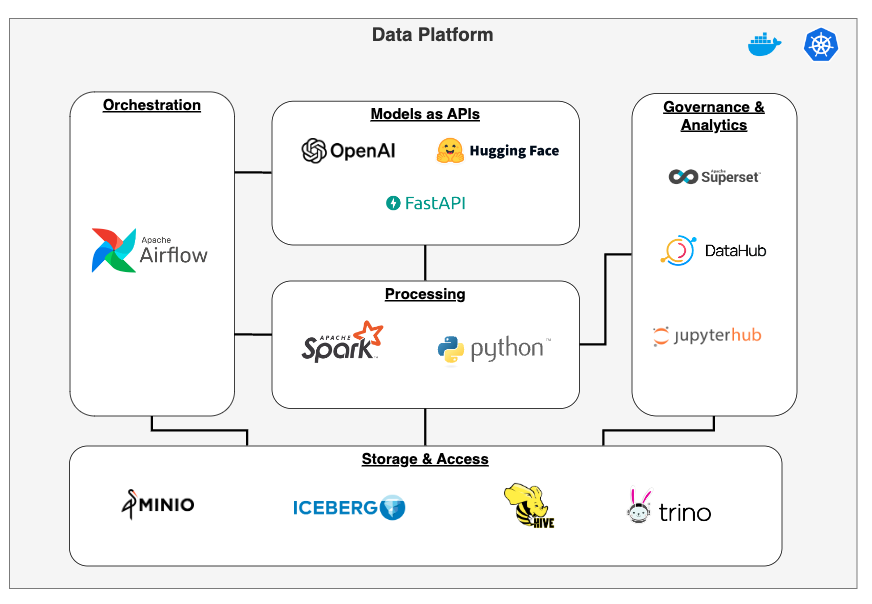
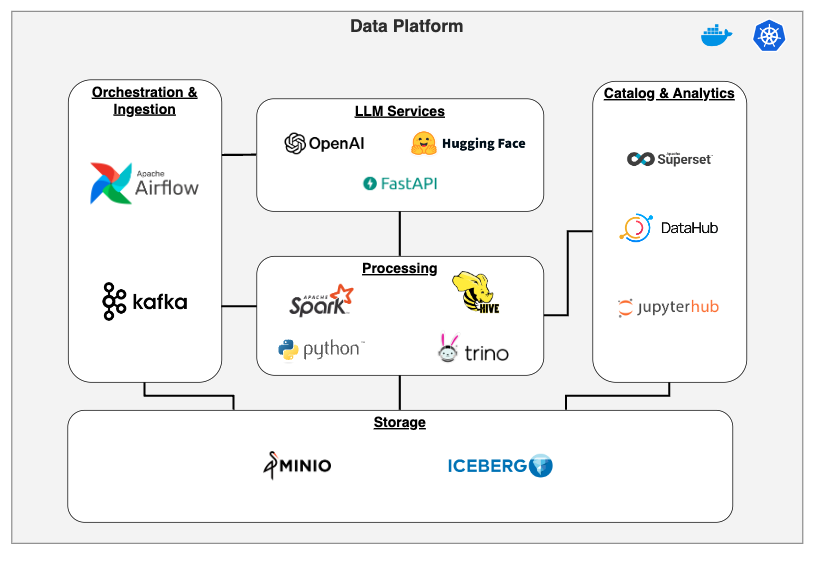
Replacing Conduktor UI with Open source one

diff --git a/services/airflow/dags/kaggle_airbnb.py b/services/airflow/dags/kaggle_airbnb.py
@@ -1,6 +1,6 @@
 import os
 from airflow.models.baseoperator import chain
-from airflow.decorators import  task,task_group
+from airflow.decorators import task, task_group
 from pendulum import datetime
 from include.operators.kaggle import KaggleDatasetToS3
 from airflow.providers.apache.spark.operators.spark_submit import SparkSubmitOperator
@@ -11,7 +11,6 @@ from airflow import DAG
 import logging
 from include.utilities.requests import post_json_request
 from include.helper_functions import kaggle_airbnb as helper_functions
-from airflow.operators.python import PythonOperator
 
 logger = logging.getLogger(__name__)
 
@@ -23,25 +22,24 @@ SPARK_CONN_ID = "spark_local"
 CONN_ID = "trino_default"
 DATABASE_NAME = "kaggle_airbnb"
 TABLE_NAME = "listings"
-URL = "http://ingress-nginx-controller.ingress-nginx.svc.cluster.local:80/api/v1/models/column_analysis"
+MODEL_SERVICE_URL = "http://ingress-nginx-controller.ingress-nginx.svc.cluster.local:80/api/v1/models/column_analysis"
 
 
 with DAG(
     dag_id="kaggle_airbnb",
-    start_date=datetime(2023, 1, 1), 
-    max_active_runs=3, 
-    schedule=None, 
-    catchup=False
-) as dag: 
+    start_date=datetime(2023, 1, 1),
+    max_active_runs=3,
+    schedule=None,
+    catchup=False,
+) as dag:
     download_dataset_task = KaggleDatasetToS3(
-        task_id='download_dataset',
+        task_id="download_dataset",
         conn_id=KAGGLE_CONN_ID,
         dataset="airbnb/seattle",
         bucket=S3_BUCKET,
         path=f"raw/{SOURCE}",
-        aws_conn_id=AWS_CONN_ID 
+        aws_conn_id=AWS_CONN_ID,
     )
-    
 
     @task_group()
     def listings():
@@ -51,86 +49,95 @@ with DAG(
 
         clean = SparkSubmitOperator(
             application=f"{os.environ['AIRFLOW_HOME']}/spark_scripts/{SOURCE}/{TYPE}/clean.py",
-            name = f"{SOURCE}_{TYPE}_clean",
+            name=f"{SOURCE}_{TYPE}_clean",
             task_id="clean",
             conn_id=SPARK_CONN_ID,
-            conf = spark_config,
+            conf=spark_config,
             application_args=[
                 SOURCE,
                 TYPE,
                 S3_RAW_PATH,
                 S3_STAGING_PATH,
-                ";".join(['url', 'scrape', 'license' ])
-                ],
+                ";".join(["url", "scrape", "license"]),
+            ],
         )
-        
+
         load = SparkSubmitOperator(
             application=f"{os.environ['AIRFLOW_HOME']}/spark_scripts/{SOURCE}/{TYPE}/load.py",
-            name = f"{SOURCE}_{TYPE}_load",
+            name=f"{SOURCE}_{TYPE}_load",
             task_id="load",
             conn_id=SPARK_CONN_ID,
-            conf = spark_config,
-            application_args=[
-                SOURCE,
-                TYPE,
-                S3_STAGING_PATH
-                ],
+            conf=spark_config,
+            application_args=[SOURCE, TYPE, S3_STAGING_PATH],
         )
 
         @task_group()
         def generate_column_descriptions():
             @task()
             def get_columns_missing_descriptions(**kwargs):
-                hook = TrinoHook(trino_conn_id=CONN_ID) 
-                columns = helper_functions.identify_columns_missing_comments(hook=hook, database=DATABASE_NAME, table=TABLE_NAME)
-                return helper_functions.create_llm_request_batches(columns=columns, batch_size=100)
+                hook = TrinoHook(trino_conn_id=CONN_ID)
+                columns = helper_functions.identify_columns_missing_comments(
+                    hook=hook, database=DATABASE_NAME, table=TABLE_NAME
+                )
+                return helper_functions.create_llm_request_batches(
+                    columns=columns, batch_size=100
+                )
 
-            
             @task
-            def query_llm(columns:list):
+            def query_llm(columns: list):
                 if not columns:
                     AirflowSkipException("No columns to describe")
 
                 payload = helper_functions.build_model_api_payload_csv(
-                    dataset_context="AirBnB", 
-                    table=TABLE_NAME, 
-                    columns=columns)
+                    dataset_context="AirBnB", table=TABLE_NAME, columns=columns
+                )
 
                 logger.info("Sending payload to API")
-                response = post_json_request(URL,  payload)
+                response = post_json_request(MODEL_SERVICE_URL, payload)
 
                 if response.status_code != 200:
                     raise Exception(f"Error from Models service API: {response.text}")
-                
+
                 content = response.json()["content"]
-                usage =response.json()["usage"]
+                usage = response.json()["usage"]
                 logger.info(f"Usage: {usage}")
                 logger.debug(f"Result: {content}")
-                
-                return helper_functions.csv_to_json_array(content)
-            
-            @task 
-            def apply_column_descriptions(**kwargs):
 
-                column_batched_responses =  kwargs['ti'].xcom_pull(task_ids='listings.generate_column_descriptions.query_llm', key='return_value')
+                return helper_functions.csv_to_json_array(content)
+
+            @task
+            def apply_column_descriptions(**kwargs):
+                column_batched_responses = kwargs["ti"].xcom_pull(
+                    task_ids="listings.generate_column_descriptions.query_llm",
+                    key="return_value",
+                )
                 # flattening resulting list of lists into a single list
-                column_responses = [item for sublist in column_batched_responses for item in sublist]
+                column_responses = [
+                    item for sublist in column_batched_responses for item in sublist
+                ]
 
                 TrinoHook(trino_conn_id=CONN_ID).run(
-                    sql=helper_functions.build_comment_sql(column_responses, database=DATABASE_NAME, table=TABLE_NAME),
-                    autocommit=True
+                    sql=helper_functions.build_comment_sql(
+                        column_responses, database=DATABASE_NAME, table=TABLE_NAME
+                    ),
+                    autocommit=True,
                 )
 
-            query_llm.partial().expand(
-                columns=get_columns_missing_descriptions()
-                )>> apply_column_descriptions() 
+            (
+                query_llm.partial().expand(columns=get_columns_missing_descriptions())
+                >> apply_column_descriptions()
+            )
 
         @task
         def run_datahub_pipeline(recipe_path):
             helper_functions.run_datahub_pipeline(recipe_path)
 
-        clean >> load >> generate_column_descriptions() >> run_datahub_pipeline("/opt/airflow/lib/datahub/recipes/airbnb.yaml")
-
+        (
+            clean
+            >> load
+            >> generate_column_descriptions()
+            >> run_datahub_pipeline("/opt/airflow/lib/datahub/recipes/airbnb.yaml")
+        )
 
     @task_group()
     def reviews():
@@ -138,18 +145,11 @@ with DAG(
         @task
         def clean():
             pass
-        
+
         @task
         def load():
             pass
 
         clean() >> load()
 
-    chain(
-        download_dataset_task,
-        [
-            listings(),
-            reviews()
-        ]
-    )
- 
+    chain(download_dataset_task, [listings(), reviews()])

diff --git a/README.md b/README.md
@@ -3,14 +3,29 @@
 
 ## Introduction
 
-Goal is to create a dev data platform running on your local machine.  Something that:
+The goal of this project is to provide a local development environment for Data Engineers & Scientists to easily experiement with new tools and use cases. This is made possible because the tools in the project are pre-configured to work with each other, minimizing the effort needed to get started. 
 
-- runs on kubernetes in docker, and has persistent volumes so your data is not loss
-- has tools for ingesting, transforming, storing, querying, exploring, cataloging, and visualizing data.  All fully configured to work with each other
-- and includes a sample data ingestion use case utilizing LLMs 
+### The use case
+We'll ingest a small dataset from Kaggle and process it with our platform:
+- Use custom Airflow operators and hooks to ingest CSVs to a raw bucket in Minio
+- Run Spark jobs to clean some of the columns, and write the output using the Apache Iceberg table format
+- Since the Kaggle data set did not come with column descriptions, we'll share some details about the data set with GPT 3.5 and ask it to generate initial column descriptions for us 
+- Run a Datahub CLI pipeline task which utilizes Trino to profile our tables, and publish results to a Kafka topic where it's consumed by the Datahub metadata service
+- #TODO Languag detection and sentiment analysis
 
 
-Cool, I got you! This project is meant to be a local playground for Data Engineers. It's designed to be fairly modular to allow users to configured based on their needs.
+This version makes uses a *mostly* open stack comprised of:
+
+Tool  | Description 
+--- | --- 
+[MinIO](https://min.io/) | An object storage solution that provides an S3-like experience, but with your data staying local.
+[Apache Airflow ](https://airflow.apache.org/) | An orchestrator for our data pipelines
+[Python](https://www.python.org/)| Primary lanaguage used in data pipelines
+[Apache Spark](https://spark.apache.org/) | Used to process ingested data (e.g. clean/transform tasks), and to analyze with SparkSQL
+[Apache Hive Metastore](https://cwiki.apache.org/confluence/display/hive/design)| Hive acts as a central repository for metadata about our data lake. Our Spark jobs and Trino rely on Hive when querying or modifying tables.
+[Apache Iceberg](https://iceberg.apache.org/)| A table format utilized by our Spark jobs to enable data stored in S3 (Minio) to be querable through engines like Trino or SparkSQL.
+[OpenAI GPT 3.5](https://openai.com/) | 
+ 
 
 
 
